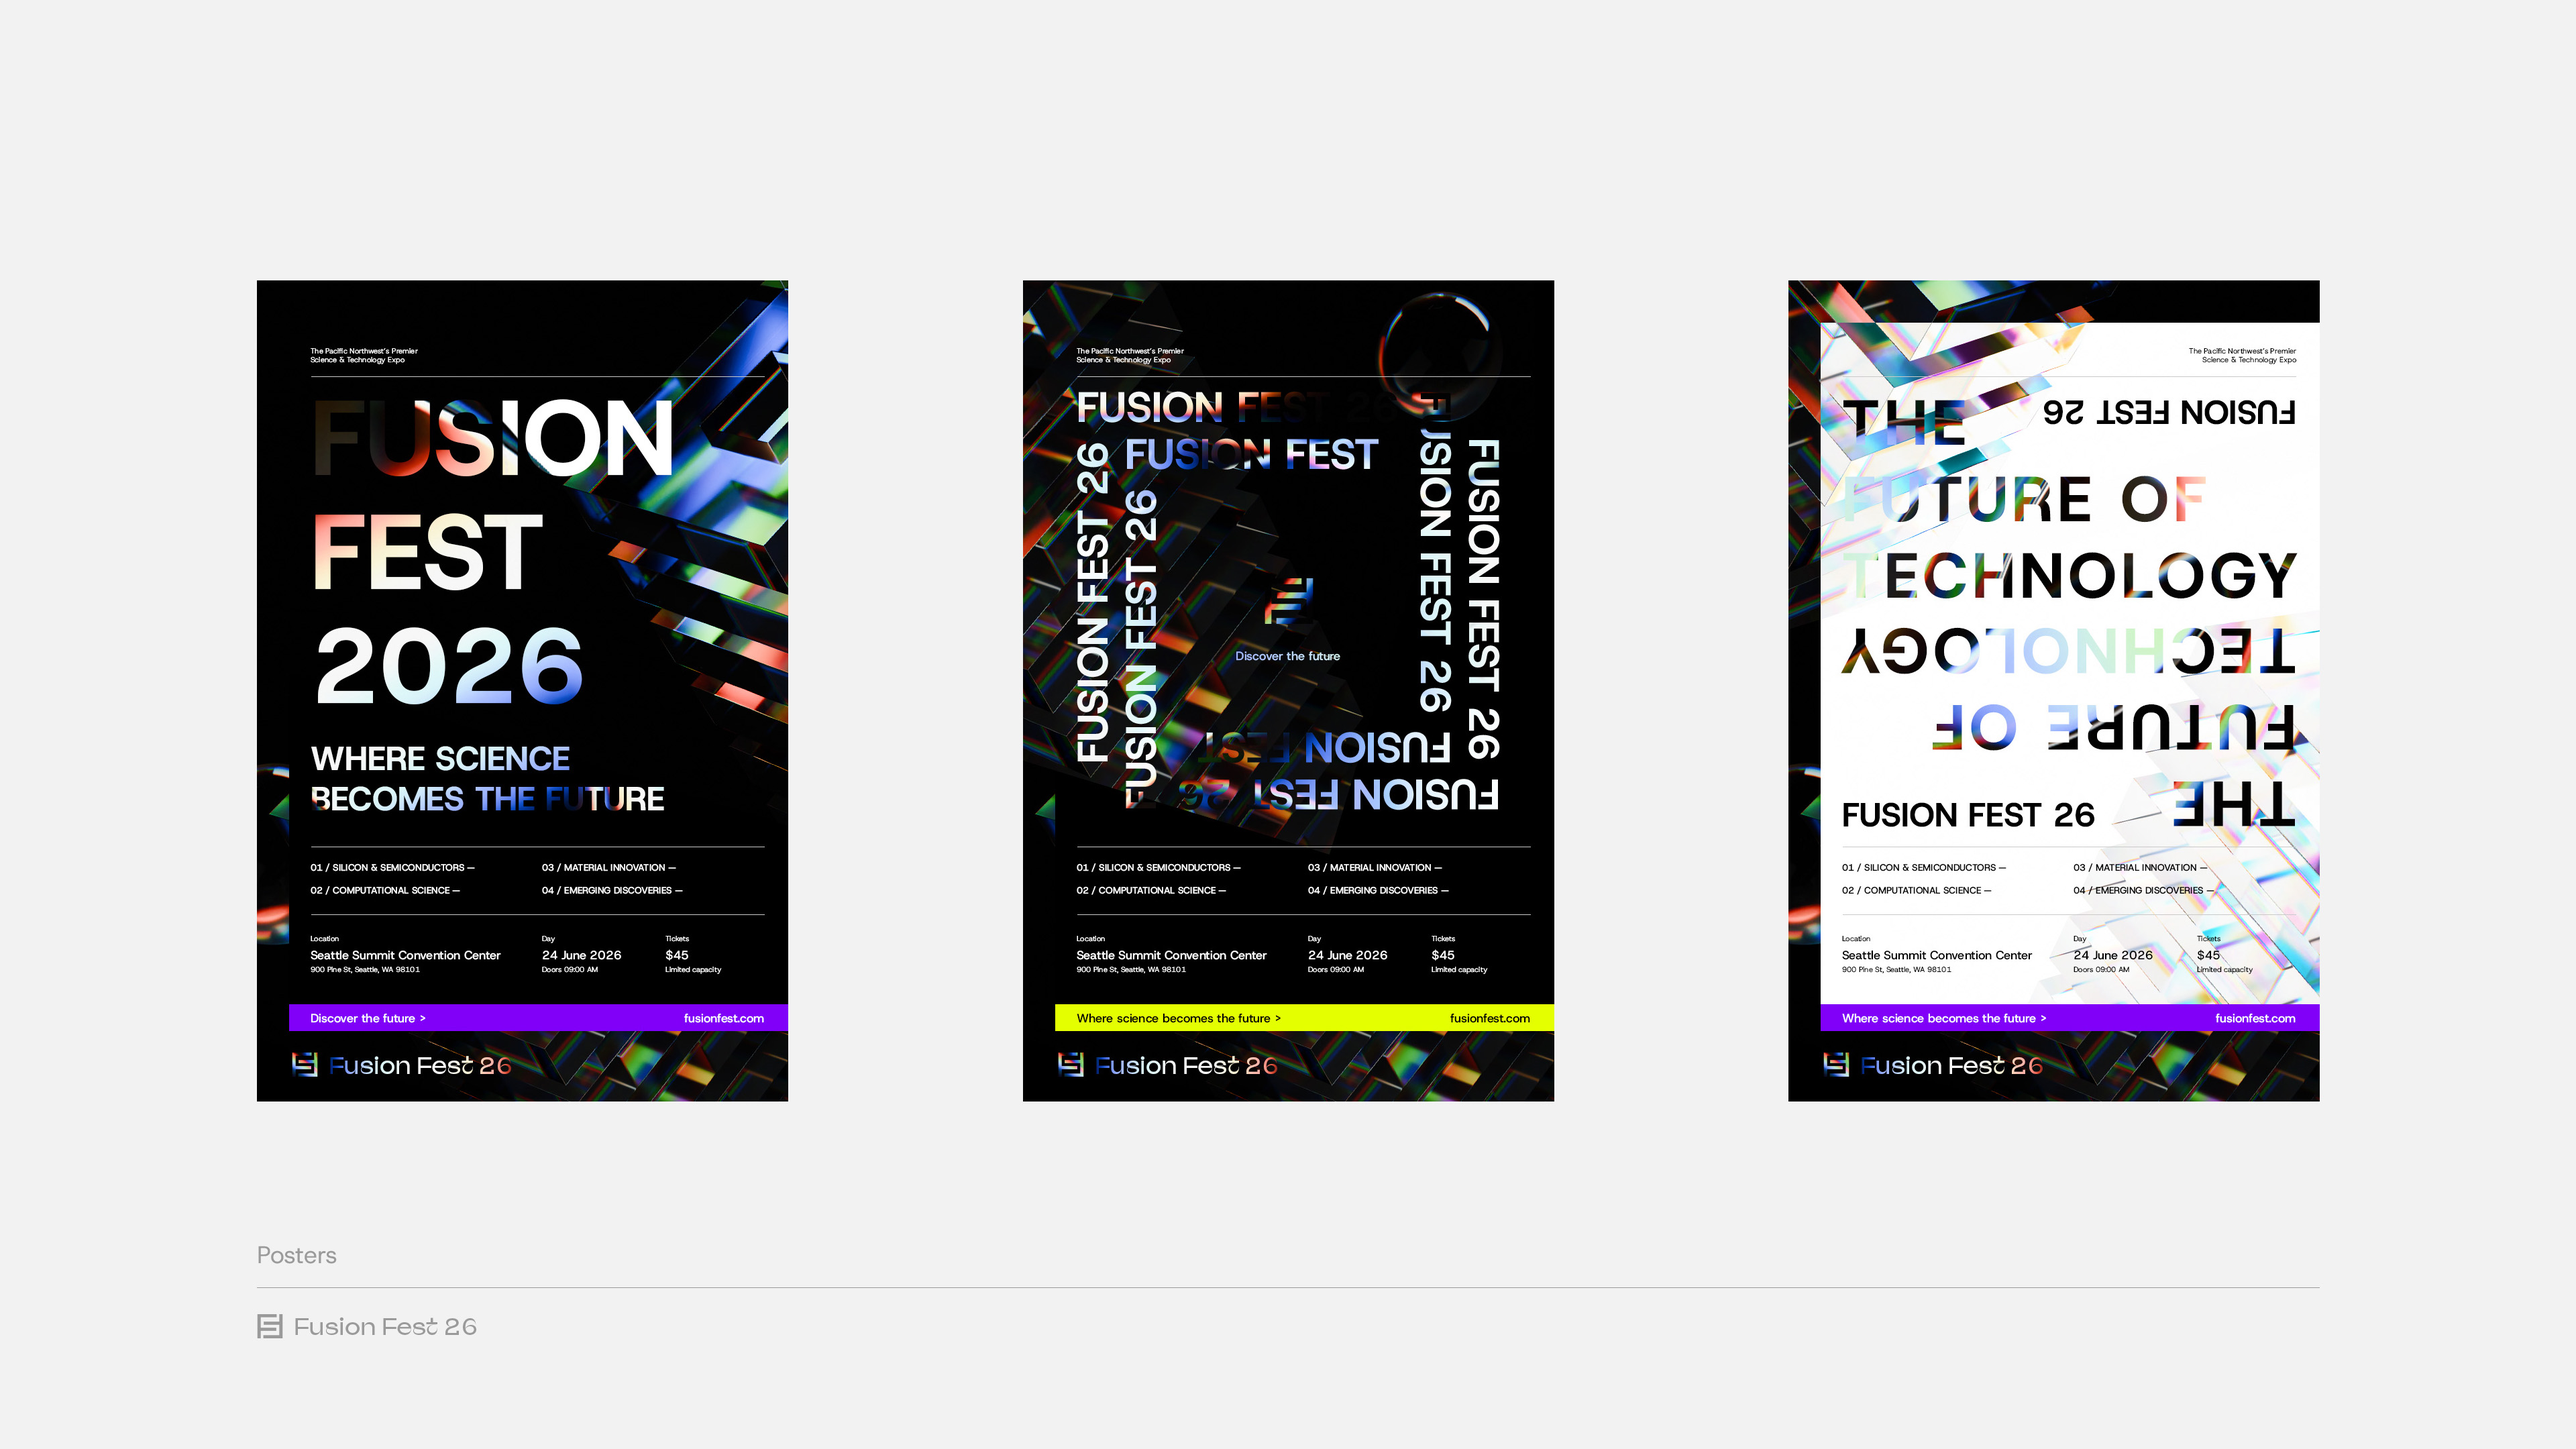
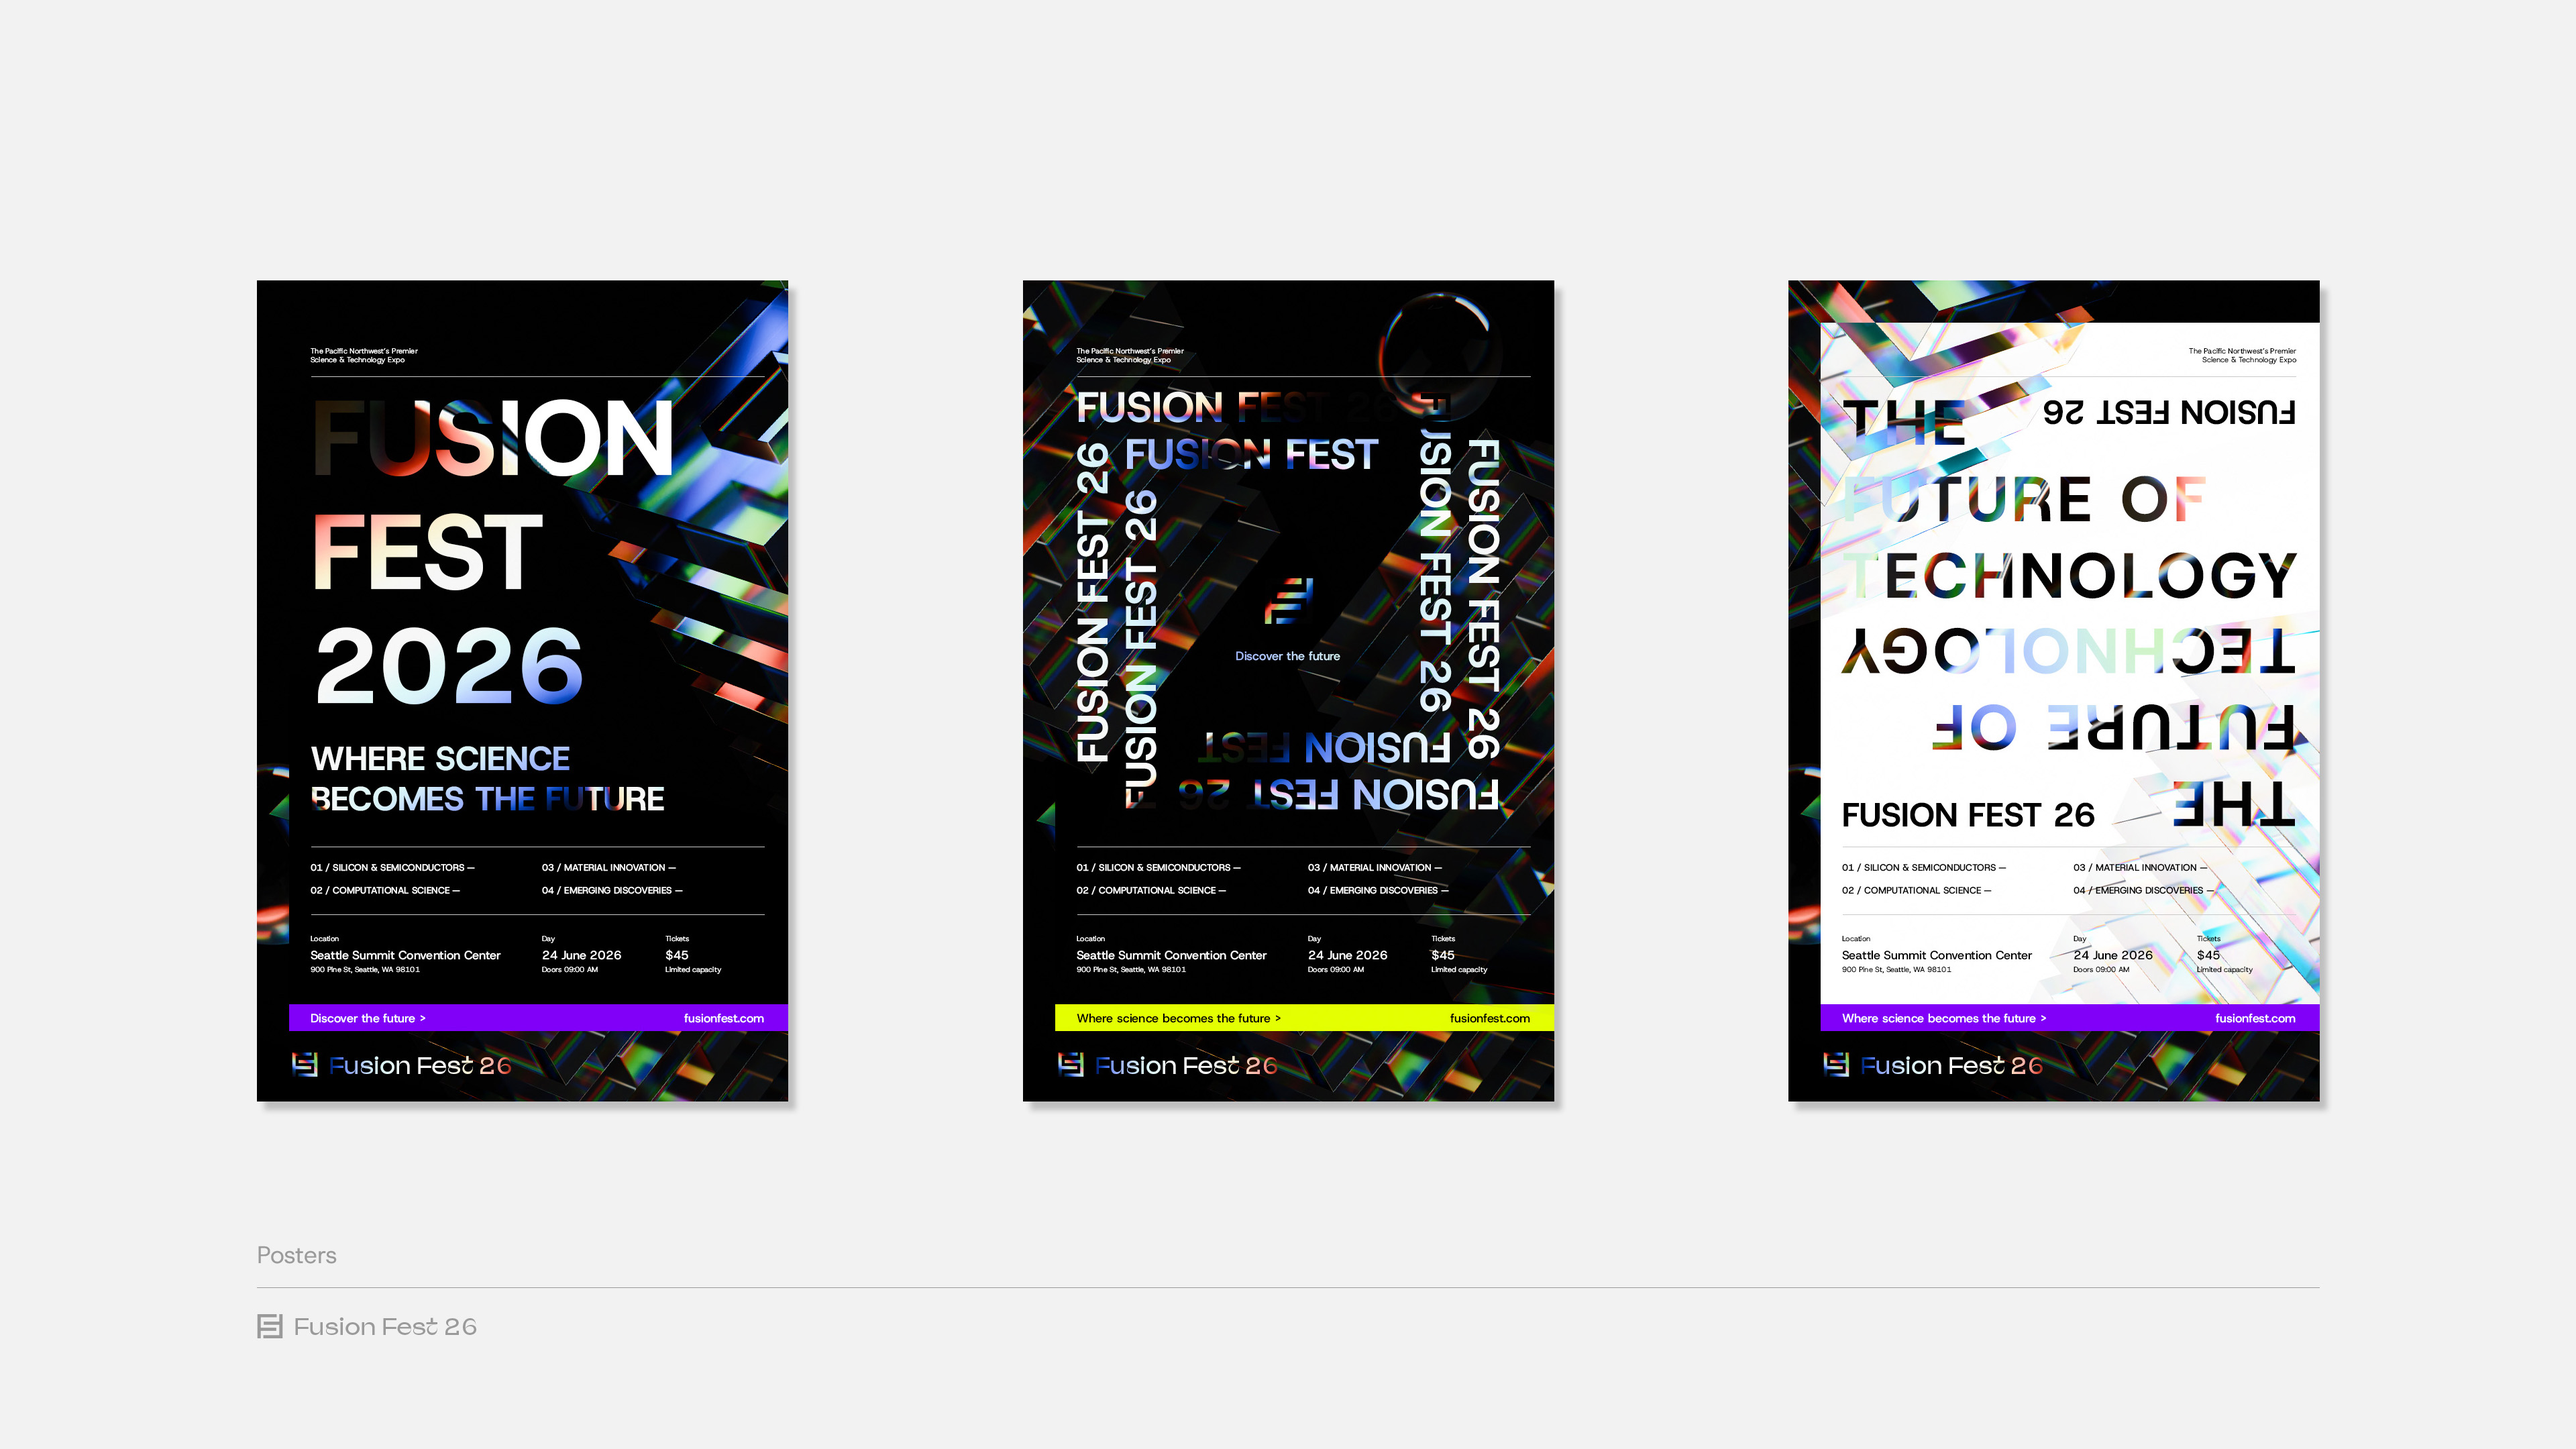
1235468999

diff --git a/fcore.html b/fcore.html
@@ -487,8 +487,8 @@
                 </div>
                 
                 <div class="next-prev">
-                    <a href="3dill.html" class="prev-project">← Previous project</a>
-                    <a href="lnyf.html" class="next-project">Next project →</a>
+                    <a href="lnyf.html" class="prev-project">← Previous project</a>
+                    <a href="3dill.html" class="next-project">Next project →</a>
                 </div>
             </div>
         </section>

diff --git a/3dill.html b/3dill.html
@@ -437,7 +437,6 @@
         
         <section class="project-content">
             <div class="container">
-                <div class="project-images">
                 
                 <div class="project-images">
                     <img src="/images/am.gif" alt="Website Design" class="project-img">
